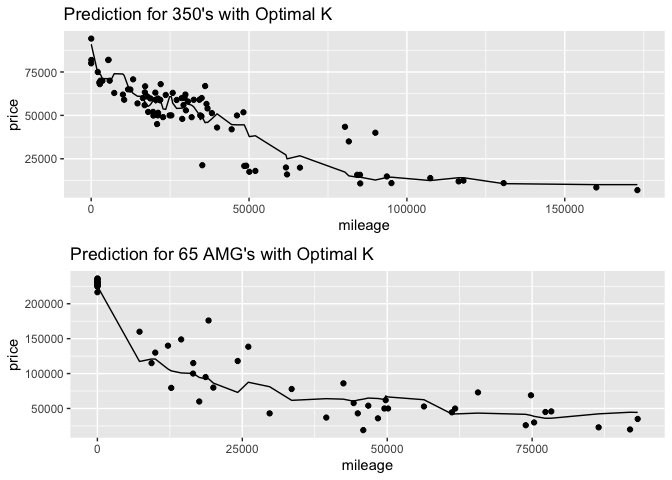
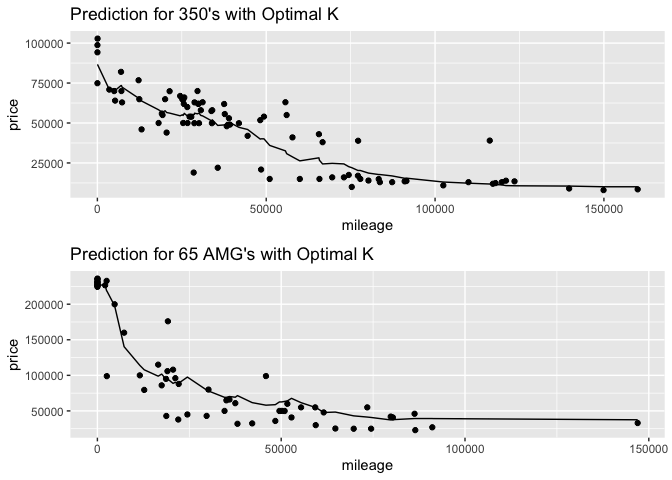
use github_doc

diff --git a/Exercise_1.md b/Exercise_1.md
@@ -1,3 +1,8 @@
+Exercise - 1
+================
+Jipeng Cheng, Weidi Hou, Yu-Ting Huang
+2/8/2022
+
 # Data visualization: flights at ABIA
 
 ## Worst Destination Airports
@@ -132,12 +137,12 @@ in competitor’s heights across the entire history of the Olympics.
 Thus, the graphs show that the optimal K for predicting 350’s prices
 with KNN method should be
 
-    ## [1] 12
+    ## [1] 16
 
 and the optimal K for predicting 65 AMG’s price with KNN method should
 be
 
-    ## [1] 10
+    ## [1] 16
 
 given they yield the smallest RMSEs respectively.
 <img src="Exercise_1_files/figure-gfm/fig10-1.png" title="Figure 10: Prediction vs. Testing Set" alt="Figure 10: Prediction vs. Testing Set" style="display: block; margin: auto;" />
